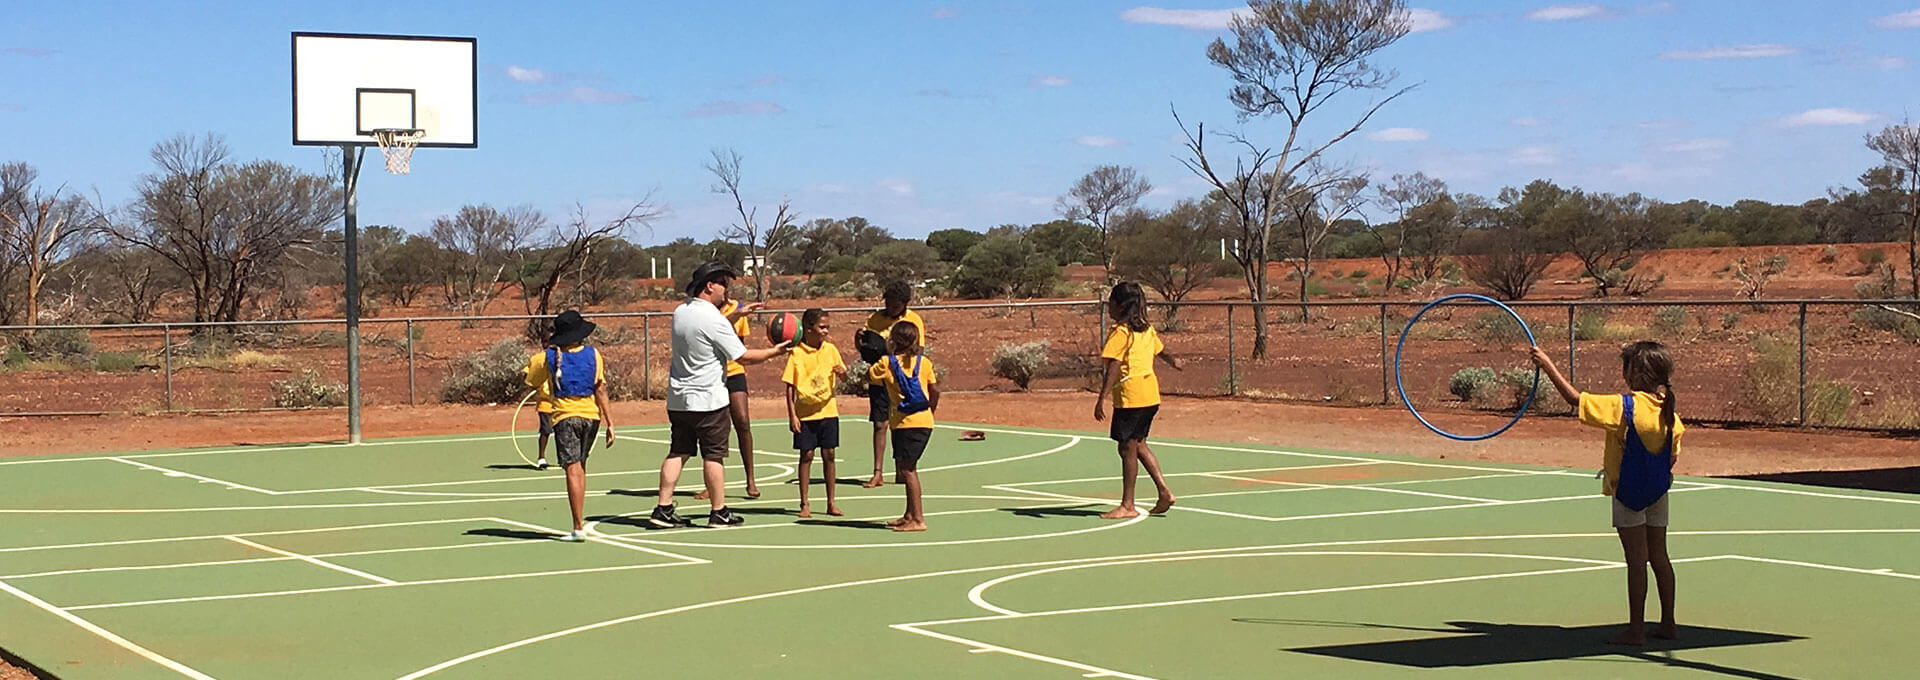
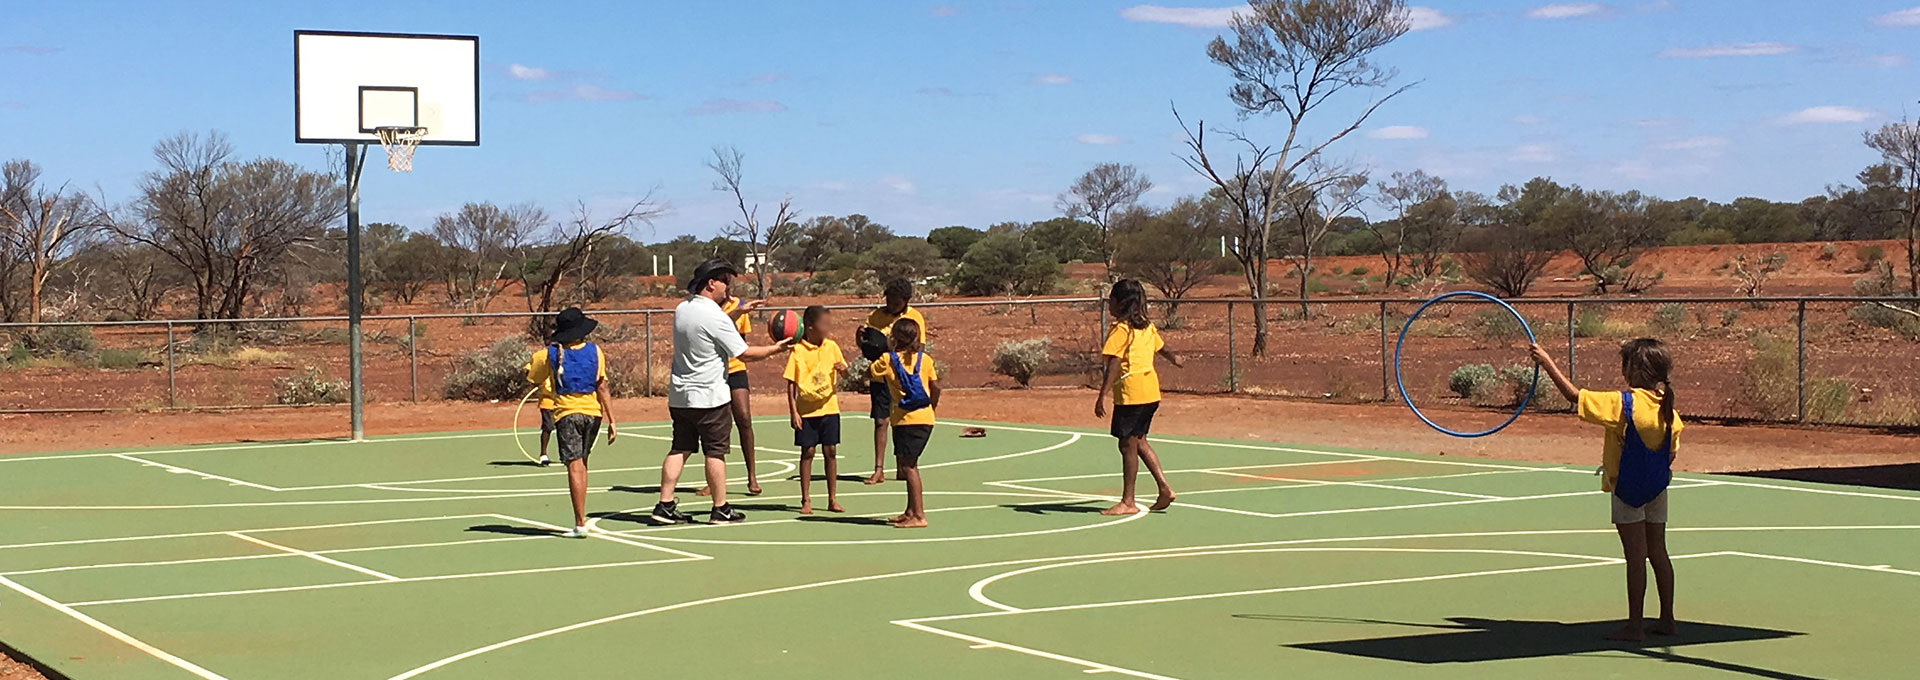
Updated page titles, footer, blurred closing gap image

diff --git a/app/styles/partials/_footer.scss b/app/styles/partials/_footer.scss
@@ -25,39 +25,49 @@
             &:nth-child(1) {
                 @media (max-width: $screen-xs-max) {
                     margin-right: 0px;
+                    margin-bottom: 30px;
+                }
+
+                @media (min-width: $screen-sm-min) {
                     margin-bottom: 20px;
                 }
 
-                @include interpolate("margin-right", 768px, 40px, 1200px, 130px, "ease-in");
-            }
-
-            &:nth-child(2) {
-                @media (max-width: $screen-xs-max) {
-                    margin-right: 0px;
-                    margin-bottom: 20px;
+                @media (min-width: $screen-lg-min) {
+                    margin-bottom: 0;
                 }
-                @include interpolate("margin-right", 768px, 40px, 1200px, 104px, "ease-in");
+
+                @include interpolate("margin-right", 768px, 20px, 1024px, 80px, "ease-in");
+                @include interpolate("margin-right", 1024px, 80px, 1200px, 130px, "ease-in");
             }
 
             ul {
                 margin-bottom: 0px;
 
                 li {
+                    display: inline-block;
+                    line-height: 60px;
+                    margin: 0 30px 0 0;
+
+                    @media (max-width: $screen-xs-max) {
+                        display: block;
+                        line-height: 1;
+                        margin: 0 0 15px 0;
+                    }
+
                     a {
-                         @media (max-width: $screen-xs-max) {
-                            margin-bottom: 12px;
+                        @media (max-width: $screen-xs-max) {
                             font-size: 16px;
+                        }
+                        @media (max-width: $screen-md-max) {
+                            font-size: 18px;
                         }
                         font-size: 20px;
                         line-height: normal;
                         color: $white;
-                        margin-bottom: 25px;
                         display: inline-block;
                     }
                     &:last-child{
-                        a{
-                            margin-bottom: 0px;
-                        }
+                        margin: 0;
                     }
                 }
             }

diff --git a/app/closing-gap.html b/app/closing-gap.html
@@ -4,7 +4,7 @@
     <meta charset="utf-8">
     <meta name="description" content="The Federal Government is closing the door on decades of supporting Aboriginal people living in remote Western Australia.">
     <meta name="viewport" content="width=device-width, initial-scale=1">
-    <title>Closing the Gap | Don't Walk Away | Department of Commmunities</title>
+    <title>Closing the Gap | Don't Walk Away</title>
 
     <link rel="apple-touch-icon" href="apple-touch-icon.png">
     <!-- Place favicon.ico in the root directory -->
@@ -129,18 +129,17 @@
               <div class="items">
                 <ul class="list-unstyled">
                   <li>
+                    <a href="/">Home</a>
+                  </li>
+                  <li>
                     <a href="/living-remotely.html">Living remotely</a>
                   </li>
                   <li>
                     <a href="/closing-gap.html">Closing the Gap</a>
                   </li>
-                  <!-- <li>
-                    <a href="#">The history </a>
-                  </li> -->
-                </ul>
-              </div>
-              <div class="items">
-                <ul class="list-unstyled">
+                  <li>
+                    <a href="/the-history.html">The history </a>
+                  </li>
                   <li>
                     <a href="/the-need.html">The need</a>
                   </li>

diff --git a/app/living-remotely.html b/app/living-remotely.html
@@ -4,7 +4,7 @@
     <meta charset="utf-8">
     <meta name="description" content="The Federal Government is closing the door on decades of supporting Aboriginal people living in remote Western Australia.">
     <meta name="viewport" content="width=device-width, initial-scale=1">
-    <title>Living Remotely | Don't Walk Away | Department of Commmunities</title>
+    <title>Living Remotely | Don't Walk Away</title>
 
     <link rel="apple-touch-icon" href="apple-touch-icon.png">
     <!-- Place favicon.ico in the root directory -->
@@ -143,18 +143,17 @@
               <div class="items">
                 <ul class="list-unstyled">
                   <li>
+                    <a href="/">Home</a>
+                  </li>
+                  <li>
                     <a href="/living-remotely.html">Living remotely</a>
                   </li>
                   <li>
                     <a href="/closing-gap.html">Closing the Gap</a>
                   </li>
-                  <!-- <li>
-                    <a href="#">The history </a>
-                  </li> -->
-                </ul>
-              </div>
-              <div class="items">
-                <ul class="list-unstyled">
+                  <li>
+                    <a href="/the-history.html">The history </a>
+                  </li>
                   <li>
                     <a href="/the-need.html">The need</a>
                   </li>

diff --git a/app/the-history.html b/app/the-history.html
@@ -4,7 +4,7 @@
     <meta charset="utf-8">
     <meta name="description" content="The Federal Government is closing the door on decades of supporting Aboriginal people living in remote Western Australia.">
     <meta name="viewport" content="width=device-width, initial-scale=1">
-    <title>The History | Don't Walk Away | Department of Commmunities</title>
+    <title>The History | Don't Walk Away</title>
 
     <link rel="apple-touch-icon" href="apple-touch-icon.png">
     <!-- Place favicon.ico in the root directory -->
@@ -235,18 +235,17 @@
               <div class="items">
                 <ul class="list-unstyled">
                   <li>
+                    <a href="/">Home</a>
+                  </li>
+                  <li>
                     <a href="/living-remotely.html">Living remotely</a>
                   </li>
                   <li>
                     <a href="/closing-gap.html">Closing the Gap</a>
                   </li>
-                  <!-- <li>
-                    <a href="#">The history </a>
-                  </li> -->
-                </ul>
-              </div>
-              <div class="items">
-                <ul class="list-unstyled">
+                  <li>
+                    <a href="/the-history.html">The history </a>
+                  </li>
                   <li>
                     <a href="/the-need.html">The need</a>
                   </li>

diff --git a/app/the-offer.html b/app/the-offer.html
@@ -4,7 +4,7 @@
     <meta charset="utf-8">
     <meta name="description" content="The Federal Government is closing the door on decades of supporting Aboriginal people living in remote Western Australia.">
     <meta name="viewport" content="width=device-width, initial-scale=1">
-    <title>The Offer | Don't Walk Away | Department of Commmunities</title>
+    <title>The Offer | Don't Walk Away</title>
 
     <link rel="apple-touch-icon" href="apple-touch-icon.png">
     <!-- Place favicon.ico in the root directory -->
@@ -138,18 +138,17 @@
               <div class="items">
                 <ul class="list-unstyled">
                   <li>
+                    <a href="/">Home</a>
+                  </li>
+                  <li>
                     <a href="/living-remotely.html">Living remotely</a>
                   </li>
                   <li>
                     <a href="/closing-gap.html">Closing the Gap</a>
                   </li>
-                  <!-- <li>
-                    <a href="#">The history </a>
-                  </li> -->
-                </ul>
-              </div>
-              <div class="items">
-                <ul class="list-unstyled">
+                  <li>
+                    <a href="/the-history.html">The history </a>
+                  </li>
                   <li>
                     <a href="/the-need.html">The need</a>
                   </li>

diff --git a/app/the-need.html b/app/the-need.html
@@ -4,7 +4,7 @@
     <meta charset="utf-8">
     <meta name="description" content="The Federal Government is closing the door on decades of supporting Aboriginal people living in remote Western Australia.">
     <meta name="viewport" content="width=device-width, initial-scale=1">
-    <title>The Need | Don't Walk Away | Department of Commmunities</title>
+    <title>The Need | Don't Walk Away</title>
 
     <link rel="apple-touch-icon" href="apple-touch-icon.png">
     <!-- Place favicon.ico in the root directory -->
@@ -125,18 +125,17 @@
               <div class="items">
                 <ul class="list-unstyled">
                   <li>
+                    <a href="/">Home</a>
+                  </li>
+                  <li>
                     <a href="/living-remotely.html">Living remotely</a>
                   </li>
                   <li>
                     <a href="/closing-gap.html">Closing the Gap</a>
                   </li>
-                  <!-- <li>
-                    <a href="#">The history </a>
-                  </li> -->
-                </ul>
-              </div>
-              <div class="items">
-                <ul class="list-unstyled">
+                  <li>
+                    <a href="/the-history.html">The history </a>
+                  </li>
                   <li>
                     <a href="/the-need.html">The need</a>
                   </li>

diff --git a/app/index.html b/app/index.html
@@ -4,7 +4,7 @@
     <meta charset="utf-8">
     <meta name="description" content="The Federal Government is closing the door on decades of supporting Aboriginal people living in remote Western Australia.">
     <meta name="viewport" content="width=device-width, initial-scale=1">
-    <title>Don't Walk Away | Department of Commmunities</title>
+    <title>Don't Walk Away</title>
 
     <link rel="apple-touch-icon" href="apple-touch-icon.png">
     <!-- Place favicon.ico in the root directory -->
@@ -133,18 +133,17 @@
               <div class="items">
                 <ul class="list-unstyled">
                   <li>
+                    <a href="/">Home</a>
+                  </li>
+                  <li>
                     <a href="/living-remotely.html">Living remotely</a>
                   </li>
                   <li>
                     <a href="/closing-gap.html">Closing the Gap</a>
                   </li>
-                  <!-- <li>
-                    <a href="#">The history </a>
-                  </li> -->
-                </ul>
-              </div>
-              <div class="items">
-                <ul class="list-unstyled">
+                  <li>
+                    <a href="/the-history.html">The history </a>
+                  </li>
                   <li>
                     <a href="/the-need.html">The need</a>
                   </li>

diff --git a/app/privacy.html b/app/privacy.html
@@ -4,7 +4,7 @@
     <meta charset="utf-8">
     <meta name="description" content="">
     <meta name="viewport" content="width=device-width, initial-scale=1">
-    <title>Privacy | Don't Walk Away | Department of Commmunities</title>
+    <title>Privacy | Don't Walk Away</title>
 
     <link rel="apple-touch-icon" href="apple-touch-icon.png">
     <!-- Place favicon.ico in the root directory -->
@@ -119,18 +119,17 @@
               <div class="items">
                 <ul class="list-unstyled">
                   <li>
+                    <a href="/">Home</a>
+                  </li>
+                  <li>
                     <a href="/living-remotely.html">Living remotely</a>
                   </li>
                   <li>
                     <a href="/closing-gap.html">Closing the Gap</a>
                   </li>
-                  <!-- <li>
-                    <a href="#">The history </a>
-                  </li> -->
-                </ul>
-              </div>
-              <div class="items">
-                <ul class="list-unstyled">
+                  <li>
+                    <a href="/the-history.html">The history </a>
+                  </li>
                   <li>
                     <a href="/the-need.html">The need</a>
                   </li>

diff --git a/app/disclaimer.html b/app/disclaimer.html
@@ -4,7 +4,7 @@
     <meta charset="utf-8">
     <meta name="description" content="">
     <meta name="viewport" content="width=device-width, initial-scale=1">
-    <title>Disclaimer | Don't Walk Away | Department of Commmunities</title>
+    <title>Disclaimer | Don't Walk Away</title>
 
     <link rel="apple-touch-icon" href="apple-touch-icon.png">
     <!-- Place favicon.ico in the root directory -->
@@ -103,18 +103,17 @@
               <div class="items">
                 <ul class="list-unstyled">
                   <li>
+                    <a href="/">Home</a>
+                  </li>
+                  <li>
                     <a href="/living-remotely.html">Living remotely</a>
                   </li>
                   <li>
                     <a href="/closing-gap.html">Closing the Gap</a>
                   </li>
                   <li>
-                    <a href="/the-history.html">The history</a>
+                    <a href="/the-history.html">The history </a>
                   </li>
-                </ul>
-              </div>
-              <div class="items">
-                <ul class="list-unstyled">
                   <li>
                     <a href="/the-need.html">The need</a>
                   </li>

diff --git a/app/copyright.html b/app/copyright.html
@@ -4,7 +4,7 @@
     <meta charset="utf-8">
     <meta name="description" content="">
     <meta name="viewport" content="width=device-width, initial-scale=1">
-    <title>Copyright | Don't Walk Away | Department of Commmunities</title>
+    <title>Copyright | Don't Walk Away</title>
 
     <link rel="apple-touch-icon" href="apple-touch-icon.png">
     <!-- Place favicon.ico in the root directory -->
@@ -102,18 +102,17 @@
               <div class="items">
                 <ul class="list-unstyled">
                   <li>
+                    <a href="/">Home</a>
+                  </li>
+                  <li>
                     <a href="/living-remotely.html">Living remotely</a>
                   </li>
                   <li>
                     <a href="/closing-gap.html">Closing the Gap</a>
                   </li>
                   <li>
-                    <a href="/the-history.html">The history</a>
+                    <a href="/the-history.html">The history </a>
                   </li>
-                </ul>
-              </div>
-              <div class="items">
-                <ul class="list-unstyled">
                   <li>
                     <a href="/the-need.html">The need</a>
                   </li>
